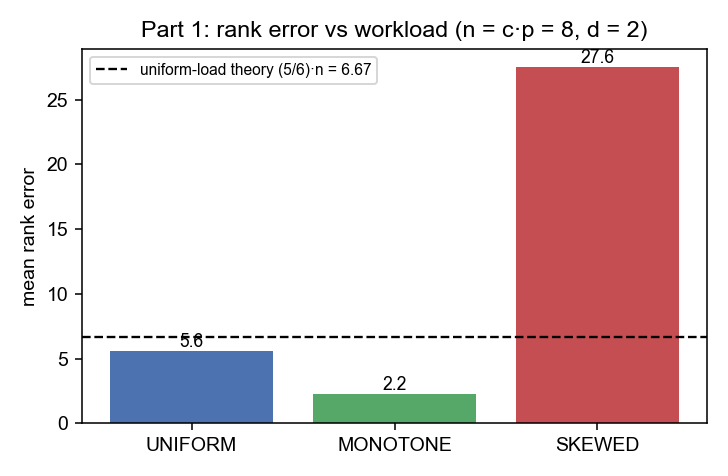
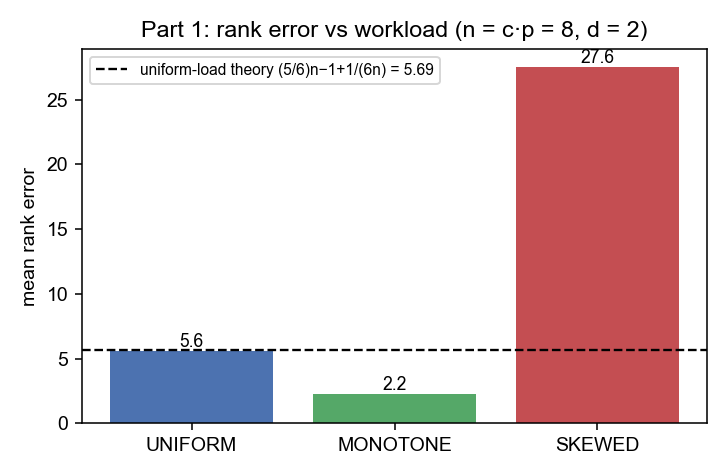
Anchor Part 1 rank error on exact closed form (5.69)

Changed region(s): [[0.1209, 0.7059, 0.967, 0.7647], [0.4231, 0.1176, 0.6044, 0.1765]]

diff --git a/bench/plot_bench.py b/bench/plot_bench.py
@@ -18,7 +18,8 @@ CSV = sys.argv[1] if len(sys.argv) > 1 else "bench_results.csv"
 df = pd.read_csv(CSV)
 
 NUMQ_P1 = 8
-THEORY = (5.0 / 6.0) * NUMQ_P1
+# exact closed form at d=2, not just the (5/6)n leading term (Walzer & Williams, ESA 2025)
+THEORY = (5.0 / 6.0) * NUMQ_P1 - 1.0 + 1.0 / (6.0 * NUMQ_P1)
 
 BLUE, GREEN, RED, ORANGE, PURPLE = "#4C72B0", "#55A868", "#C44E52", "#DD8452", "#8172B3"
 
@@ -30,7 +31,7 @@ def fig_part1():
     fig, ax = plt.subplots(figsize=(5.2, 3.4))
     bars = ax.bar(order, means, color=[BLUE, GREEN, RED])
     ax.axhline(THEORY, ls="--", color="black", lw=1.2,
-               label=f"uniform-load theory (5/6)·n = {THEORY:.2f}")
+               label=f"uniform-load theory (5/6)n−1+1/(6n) = {THEORY:.2f}")
     for b, m in zip(bars, means):
         ax.text(b.get_x() + b.get_width() / 2, m, f"{m:.1f}", ha="center", va="bottom", fontsize=9)
     ax.set_ylabel("mean rank error")

diff --git a/README.md b/README.md
@@ -6,7 +6,7 @@ I implement the **MultiQueue**, a relaxed concurrent priority queue, in Java 8 a
 
 The project has three parts: a *problem* the papers do not analyze, a *variation* of the sampling width, and an *improvement* to the sampling rule. All numbers come from real runs of the Java 8 code on the college's 96-core server.
 
-1. **Problem: skew breaks the bound (~4×).** Under a non-uniform *placement* workload (small keys routed to a few "hot" queues), the measured mean rank error is about 4× the uniform-load prediction: **27.56 vs 6.67** at `n=8`, `d=2` (4.13×). Changing only key *order* while keeping placement uniform (a Dijkstra-like MONOTONE workload) is harmless (2.25). Rank error is ordinal, so what the guarantee depends on is non-uniform placement, not key randomness.
+1. **Problem: skew breaks the bound (~5×).** Under a non-uniform *placement* workload (small keys routed to a few "hot" queues), the measured mean rank error is about 5× the uniform-load prediction: **27.56 vs 5.69** at `n=8`, `d=2` (4.85×). Changing only key *order* while keeping placement uniform (a Dijkstra-like MONOTONE workload) is harmless (2.25). Rank error is ordinal, so what the guarantee depends on is non-uniform placement, not key randomness.
 2. **Variation: the `d` sweep trade-off.** Widening the sample from `d=1` to `d=8` makes rank error fall steeply (on SKEWED, from **1756.5 to 1.7**) while throughput declines about **28%** over the useful `d=2–8` range. The biggest single gain is the first extra choice at `d=2` (SKEWED 1756→36, ~49×), so `d=2` is the sensible default. That raises the Part 3 question: can I get better quality at `d=2` without paying for extra samples?
 3. **Improvement: STALE → WINNER.** I *chose* to start from biasing `deleteMin` toward the least-recently-sampled queue (**STALE**). My advisor approved it with one constraint: no *global* per-queue tracker, since that would just re-create the bottleneck the MultiQueue exists to remove. The signal has to stay thread-local, with at most occasional synchronization. I implemented STALE, measured it, and found it weak (only ~18% better), because the least-recently-sampled queue has nothing to do with where the small elements actually are. So I improved it into **WINNER**: a thread-local bias toward *recently winning* queues (the "power of two choices with memory" [4], moved from the insertion side to the deletion side). WINNER cuts SKEWED rank error by about **61%** with no shared writes and no herding.
 
@@ -72,7 +72,7 @@ All numbers are from real runs of the Java 8 code; rank error is measured exactl
 
 | Part | Measurement | Result |
 |------|-------------|--------|
-| **1 — problem** | mean rank error, `n=8`, `d=2` (theory = `(5/6)·8 = 6.67`) | UNIFORM **5.62** (0.84×) · MONOTONE **2.25** (0.34×) · SKEWED **27.56** (4.13×) |
+| **1 — problem** | mean rank error, `n=8`, `d=2` (theory = `(5/6)·8 − 1 + 1/(6·8) = 5.69`) | UNIFORM **5.62** (0.99×) · MONOTONE **2.25** (0.40×) · SKEWED **27.56** (4.85×) |
 | **2 — variation** | SKEWED mean rank error, `p=8`, `n=16` | `d=1` **1756.5** → `d=2` **35.6** → `d=4` **4.2** → `d=8` **1.7**; throughput ~**28%** lower from `d=2` to `d=8` |
 | **3 — improvement** | SKEWED mean rank error, `d=2`, `n=16` (baseline UNIFORM **37.78**) | STALE **30.92** (~18%) · WINNER `M=1` **13.71** · WINNER `M=4, ε=⅛` **14.74** — about **61%** off the mean, tail `p99` **615→80** (~8×) |
 | | robustness | WINNER holds under `p=8` interleaved execution (**29.2→14.3**) and does not herd: throughput ~**14 M ops/s** vs UNIFORM **13.6 M** / STALE **13.9 M**, and a *shared* tracker collapses throughput **14.2→3.6 M ops/s** (~4×) |